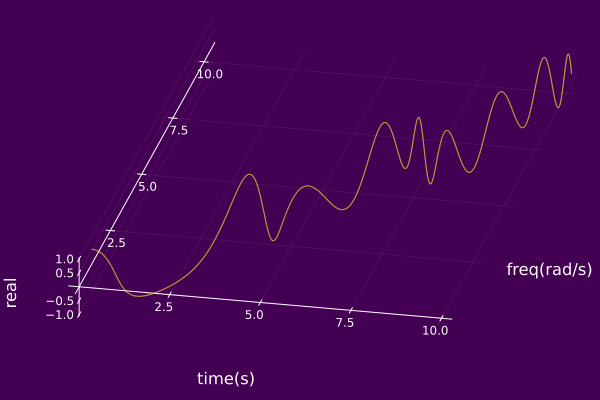
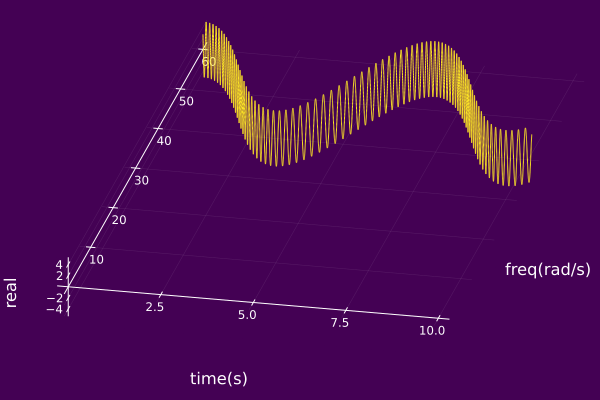
updated FM example

diff --git a/docs/src/basicComponents/FM.md b/docs/src/basicComponents/FM.md
@@ -93,7 +93,7 @@ For another choice of parameters of the canonical triplet, we have the following
 
 ```julia
 using ISA, Plots
-𝐶₀ = AMFMtriplet(t->1,t->cos(2t)+t,1.0)
+𝐶₀ = AMFMtriplet(t->5,t->50+10cos(t),1.0)
 ψ₀ = AMFMcomp(𝐶₀)
 plot(ψ₀; timeaxis=0.0:0.001:10.0)
 ```
@@ -101,7 +101,7 @@ plot(ψ₀; timeaxis=0.0:0.001:10.0)
 
 ```julia
 using ISA, Plots
-𝐶₀ = AMFMtriplet(t->1,t->cos(2t)+t,1.0)
+𝐶₀ = AMFMtriplet(t->5,t->50+10cos(t),1.0)
 ψ₀ = AMFMcomp(𝐶₀)
 plot(𝐶₀; timeaxis=0.0:0.001:10.0)
 ```
@@ -109,7 +109,7 @@ plot(𝐶₀; timeaxis=0.0:0.001:10.0)
 
 ```julia
 using ISA, Plots
-𝐶₀ = AMFMtriplet(t->1,t->cos(2t)+t,1.0)
+𝐶₀ = AMFMtriplet(t->5,t->50+10cos(t),1.0)
 ψ₀ = AMFMcomp(𝐶₀)
 plot(𝐶₀; timeaxis=0.0:0.001:10.0)
 plot!( camera=(0,90),
